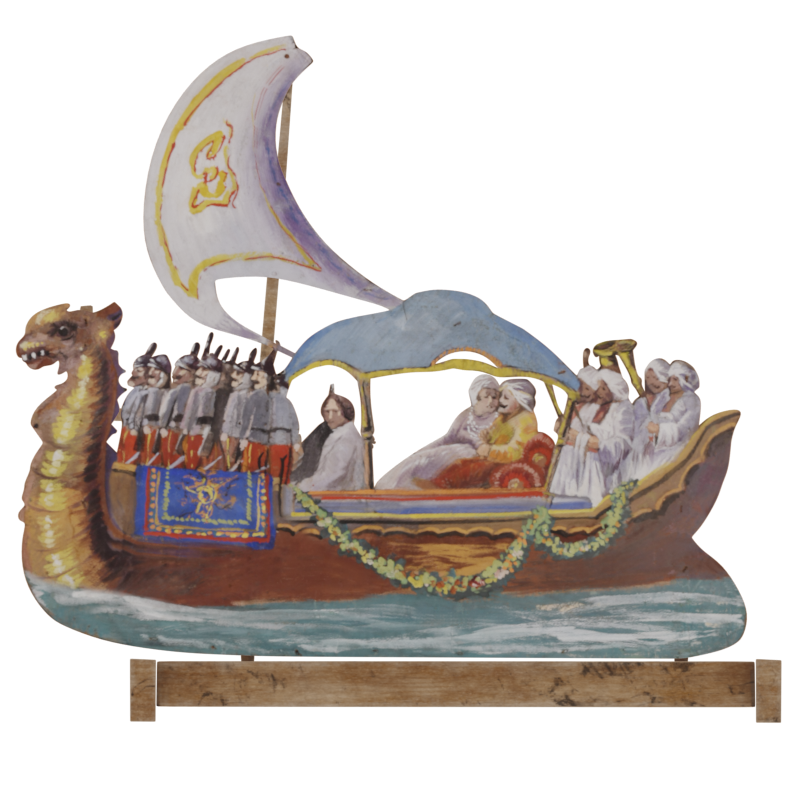
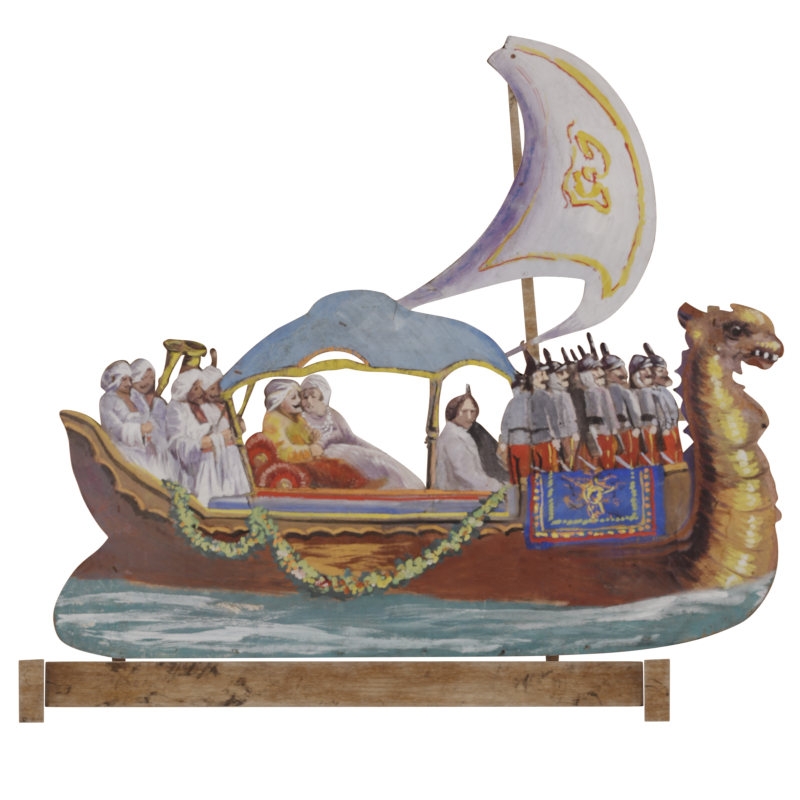
[Bugfix] delete figures
- schiffe in richtige richtung
- delete figuren funktioniert jetzt

diff --git a/Assets/Scripts/RailManager.cs b/Assets/Scripts/RailManager.cs
@@ -313,7 +313,7 @@ public class RailManager : MonoBehaviour
                     }
                     else
                     {
-                       // Debug.Log("es gibt kein idx-1");
+                        // Debug.Log("es gibt kein idx-1");
                         LoopRight(railIndex, idx, fig, false);
                     }
                 }
@@ -468,7 +468,7 @@ public class RailManager : MonoBehaviour
                     }
                     else
                     {
-                       // Debug.Log("layer 2");
+                        // Debug.Log("layer 2");
                         SceneManaging.scaleToLayerSize(fig.figure, 2, rails[railIndex], rectSize);
                         fig.layer = 2;
                     }
@@ -487,10 +487,10 @@ public class RailManager : MonoBehaviour
                     }
                     else
                     {
-                       // Debug.Log("alles voll!");
+                        // Debug.Log("alles voll!");
                         if (currentClickedInstanceObjectIndex != -1)
                         {
-                           // Debug.Log("in der timeline");
+                            // Debug.Log("in der timeline");
                             // wenn maus links vom objekt ist
                             // if (Input.mousePosition.x < listWithoutCurrentFigure[currentClickedInstanceObjectIndex].figure.GetComponent<RectTransform>().position.x + listWithoutCurrentFigure[currentClickedInstanceObjectIndex].position.y / 2)
                             // {
@@ -505,7 +505,7 @@ public class RailManager : MonoBehaviour
                         else
                         {
                             // ins shelf zurueck!
-                        //    Debug.Log("vom shelf");
+                            //    Debug.Log("vom shelf");
                             spaceWarning.transform.position = new Vector2(spaceWarning.transform.position.x, rails[railIndex].transform.position.y);
                             spaceWarningBorder.transform.position = new Vector2(spaceWarning.transform.position.x, rails[railIndex].transform.position.y);
                             _toBeRemoved = true;
@@ -532,16 +532,16 @@ public class RailManager : MonoBehaviour
                 // wenn zwischen den beiden genug platz ist
                 if (listWithoutCurrentFigure[listWithoutCurrentFigure[i].neighborLeft].position.x + listWithoutCurrentFigure[listWithoutCurrentFigure[i].neighborLeft].position.y + rectSize <= listWithoutCurrentFigure[i].position.x + 1)
                 {
-                  //  Debug.Log("es ist genug platz");
+                    //  Debug.Log("es ist genug platz");
                     if (listWithoutCurrentFigure[i].layer == 1)
                     {
-                    //    Debug.Log("layer 1");
+                        //    Debug.Log("layer 1");
                         SceneManaging.scaleToLayerSize(fig.figure, 1, rails[railIndex], rectSize);
                         fig.layer = 1;
                     }
                     else
                     {
-                      //  Debug.Log("layer 2");
+                        //  Debug.Log("layer 2");
                         SceneManaging.scaleToLayerSize(fig.figure, 2, rails[railIndex], rectSize);
                         fig.layer = 2;
                     }
@@ -551,26 +551,26 @@ public class RailManager : MonoBehaviour
                 }
                 else
                 {
-                   // Debug.Log("nicht genug platz. x: " + (listWithoutCurrentFigure[i].position.x) + ", Figur: " + (listWithoutCurrentFigure[listWithoutCurrentFigure[i].neighborLeft].position.x + listWithoutCurrentFigure[listWithoutCurrentFigure[i].neighborLeft].position.y + rectSize));
+                    // Debug.Log("nicht genug platz. x: " + (listWithoutCurrentFigure[i].position.x) + ", Figur: " + (listWithoutCurrentFigure[listWithoutCurrentFigure[i].neighborLeft].position.x + listWithoutCurrentFigure[listWithoutCurrentFigure[i].neighborLeft].position.y + rectSize));
                     // hier passiert nichts, es muss weiter gesucht werden
                 }
             }
             else
             {
-                Debug.Log(listWithoutCurrentFigure[i].objName + " hat KEINEN linken nachbarn");
+                //Debug.Log(listWithoutCurrentFigure[i].objName + " hat KEINEN linken nachbarn");
                 if (listWithoutCurrentFigure[i].position.x - rectSize > 50)
                 {
-                   // Debug.Log("platz bis rand");
+                    // Debug.Log("platz bis rand");
                     if (listWithoutCurrentFigure[i].layer == 1)
                     {
-                     //   Debug.Log("layer 1");
+                        //   Debug.Log("layer 1");
                         SceneManaging.scaleToLayerSize(fig.figure, 1, rails[railIndex], rectSize);
                         fig.layer = 1;
 
                     }
                     else
                     {
-                      //  Debug.Log("layer 2");
+                        //  Debug.Log("layer 2");
                         SceneManaging.scaleToLayerSize(fig.figure, 2, rails[railIndex], rectSize);
                         fig.layer = 2;
                     }
@@ -582,13 +582,13 @@ public class RailManager : MonoBehaviour
                     // hier muss rechts weitergesucht werden
                     if (!fromRight)
                     {
-                      //  Debug.Log("kein platz bis zum rand, es muss rechts weitergesucht werden");
+                        //  Debug.Log("kein platz bis zum rand, es muss rechts weitergesucht werden");
                         LoopRight(currentRailIndex, 0, fig, true);
                     }
                     else
                     {
                         // ins shelf zurueck!
-                       // Debug.Log("alles voll!");
+                        // Debug.Log("alles voll!");
                         if (currentClickedInstanceObjectIndex != -1)
                         {
                             //Debug.Log("in der timeline");
@@ -608,7 +608,7 @@ public class RailManager : MonoBehaviour
                         // vom shelf
                         else
                         {
-                           // Debug.Log("vom shelf");
+                            // Debug.Log("vom shelf");
                             spaceWarning.transform.position = new Vector2(spaceWarning.transform.position.x, rails[currentRailIndex].transform.position.y);
                             spaceWarningBorder.transform.position = new Vector2(spaceWarning.transform.position.x, rails[railIndex].transform.position.y);
                             _toBeRemoved = true;
@@ -791,12 +791,21 @@ public class RailManager : MonoBehaviour
     {
         int tmpNr = int.Parse(obj.figure.transform.GetChild(1).name.Substring(12));
         int currentCounterNr = int.Parse(figCounterCircle[tmpNr - 1].text);
-
+        
         // erase from layer list
         railList[currentRailIndex].myObjects.Remove(obj);
 
         figCounterCircle[tmpNr - 1].text = (currentCounterNr - 1).ToString();
-        StaticSceneData.StaticData.figureElements[Int32.Parse(obj.objName.Substring(6, 2)) - 1].figureInstanceElements.Remove(StaticSceneData.StaticData.figureElements[Int32.Parse(obj.objName.Substring(6, 2)) - 1].figureInstanceElements[Int32.Parse(obj.objName.Substring(17))]);
+
+        // figure instance element rauskriegen (beim loeschen veraendert sich der platz im array, aber die endung ist noch 001 bspw.)
+        for (int j = 0; j < StaticSceneData.StaticData.figureElements[Int32.Parse(obj.figure.name.Substring(6, 2)) - 1].figureInstanceElements.Count; j++)
+        {
+            if (StaticSceneData.StaticData.figureElements[Int32.Parse(obj.figure.name.Substring(6, 2)) - 1].figureInstanceElements[j].instanceNr == int.Parse(obj.figure.name.Substring(16)))
+            {
+                // Debug.Log("remove: " + StaticSceneData.StaticData.figureElements[Int32.Parse(obj.figure.name.Substring(6, 2)) - 1].figureInstanceElements[j].name);
+                StaticSceneData.StaticData.figureElements[Int32.Parse(obj.figure.name.Substring(6, 2)) - 1].figureInstanceElements.Remove(StaticSceneData.StaticData.figureElements[Int32.Parse(obj.figure.name.Substring(6, 2)) - 1].figureInstanceElements[j]);
+            }
+        }
 
         Destroy(obj.figure);
         Destroy(obj.figure3D);
@@ -812,6 +821,7 @@ public class RailManager : MonoBehaviour
         }
         railList[currentRailIndex].myObjects = railList[currentRailIndex].myObjects.OrderBy(x => x.position.x).ToList();
         SceneManaging.CalculateNeighbors(railList[currentRailIndex].myObjects);
+
     }
     public GameObject CreateNew2DInstance(int figureNr, float momentOrPosX, int loadFromFile, int savedLayer, bool saveToSceneData)   // if layer = -1, then new instance, else layer has been saved
     {
@@ -971,8 +981,8 @@ public class RailManager : MonoBehaviour
             SceneManaging.scaleToLayerSize(newCopyOfFigure, 0, rails[currentRailIndex], rectSize);
             // Save to SceneData:
             FigureInstanceElement thisFigureInstanceElement = new FigureInstanceElement();
-            thisFigureInstanceElement.instanceNr = countCopiesOfObject(figureObjects[figureNr].name); //index
-            thisFigureInstanceElement.name = curr3DObject.name + "_" + countCopiesOfObject(figureObjects[figureNr].name).ToString("000");
+            thisFigureInstanceElement.instanceNr = (countCopiesOfObject(figureObjects[figureNr].name)) - 1; //index
+            thisFigureInstanceElement.name = curr3DObject.name + "_" + (countCopiesOfObject(figureObjects[figureNr].name) - 1).ToString("000");
             thisFigureInstanceElement.railStart = (int)Char.GetNumericValue(rails[currentRailIndex].name[17]) - 1; //railIndex
 
             StaticSceneData.StaticData.figureElements[figureNr].figureInstanceElements.Add(thisFigureInstanceElement);
@@ -1523,6 +1533,7 @@ public class RailManager : MonoBehaviour
                 releaseOnTimeline = false;
                 changedRail = false;
                 newHitTimeline = -1;
+                _toBeRemovedFromTimeline = true;
             }
         }
         // dragging an object from shelf to timeline / flyer
@@ -1794,8 +1805,8 @@ public class RailManager : MonoBehaviour
                         ///////////////////////////////////////////////////////////////////////////////////////////////////////
                         // Save to SceneData:
                         FigureInstanceElement thisFigureInstanceElement = new FigureInstanceElement();
-                        thisFigureInstanceElement.instanceNr = countCopiesOfObject(figureObjects[currentClickedObjectIndex].name); //index
-                        thisFigureInstanceElement.name = curr3DObject.name + "_" + countCopiesOfObject(figureObjects[currentClickedObjectIndex].name).ToString("000");
+                        thisFigureInstanceElement.instanceNr = (countCopiesOfObject(figureObjects[currentClickedObjectIndex].name)) - 1; //index
+                        thisFigureInstanceElement.name = curr3DObject.name + "_" + (countCopiesOfObject(figureObjects[currentClickedObjectIndex].name) - 1).ToString("000");
                         thisFigureInstanceElement.railStart = (int)Char.GetNumericValue(rails[currentRailIndex].name[17]) - 1; //railIndex
 
                         StaticSceneData.StaticData.figureElements[currentClickedObjectIndex].figureInstanceElements.Add(thisFigureInstanceElement);
@@ -1832,7 +1843,7 @@ public class RailManager : MonoBehaviour
                         {
                             if (railList[currentRailIndex].myObjects[i].objName == currentName)
                             {
-                                //Debug.Log("remove: " + railList[currentRailIndex].myObjects[i].objName);
+                                Debug.Log("remove: " + railList[currentRailIndex].myObjects[i].objName);
                                 removeObjectFromTimeline(railList[currentRailIndex].myObjects[i]);
                             }
                         }
@@ -1860,13 +1871,13 @@ public class RailManager : MonoBehaviour
             }
 
             // if instance is dropped somewhere else than on timeline: delete instance
-            else if (releaseOnTimeline == false && currentClickedInstanceObjectIndex != -1 && isInstance)
+            else if (releaseOnTimeline == false && currentClickedInstanceObjectIndex != -1 && isInstance && _toBeRemovedFromTimeline)
             {
                 for (int i = 0; i < railList[currentRailIndex].myObjects.Count; i++)
                 {
                     if (railList[currentRailIndex].myObjects[i].objName == currentName)
                     {
-                        //Debug.Log("remove: " + railList[currentRailIndex].myObjects[i].objName);
+                        // Debug.Log("remove: " + railList[currentRailIndex].myObjects[i].objName);
                         removeObjectFromTimeline(railList[currentRailIndex].myObjects[i]);
                     }
                 }
@@ -1909,19 +1920,31 @@ public class RailManager : MonoBehaviour
                     {
                         railList[k].myObjects[i].figure3D.transform.localEulerAngles = new Vector3(railList[k].myObjects[i].figure3D.transform.localEulerAngles.x, 270, railList[k].myObjects[i].figure3D.transform.localEulerAngles.z);
                     }
-                    StaticSceneData.StaticData.figureElements[Int32.Parse(railList[k].myObjects[i].figure.name.Substring(6, 2)) - 1].figureInstanceElements[Int32.Parse(railList[k].myObjects[i].figure.name.Substring(17))].moment = moment;
+                    //Debug.Log("versuch: "+ "FigObj"+Int32.Parse(railList[k].myObjects[i].figure.name.Substring(6, 2)) + "instance"+(railList[k].myObjects[i].figure.name.Substring(16)));
 
-                    if (railList[k].myObjects[i].layer == 1) //railList[k].myObjects.Contains(railList[k].myObjects[i]))
+                    for (int j = 0; j < StaticSceneData.StaticData.figureElements[Int32.Parse(railList[k].myObjects[i].figure.name.Substring(6, 2)) - 1].figureInstanceElements.Count; j++)
                     {
-                        if (railList[k].sizeLayering == 1)
-                            StaticSceneData.StaticData.figureElements[Int32.Parse(railList[k].myObjects[i].figure.name.Substring(6, 2)) - 1].figureInstanceElements[Int32.Parse(railList[k].myObjects[i].figure.name.Substring(17))].layer = 0;
-                        else
-                            StaticSceneData.StaticData.figureElements[Int32.Parse(railList[k].myObjects[i].figure.name.Substring(6, 2)) - 1].figureInstanceElements[Int32.Parse(railList[k].myObjects[i].figure.name.Substring(17))].layer = 1;
+                        if (StaticSceneData.StaticData.figureElements[Int32.Parse(railList[k].myObjects[i].figure.name.Substring(6, 2)) - 1].figureInstanceElements[j].instanceNr == int.Parse(railList[k].myObjects[i].figure.name.Substring(16)))
+                        {
+
+                            StaticSceneData.StaticData.figureElements[Int32.Parse(railList[k].myObjects[i].figure.name.Substring(6, 2)) - 1].figureInstanceElements[j].moment = moment;
+                            // Debug.Log("moment: " + StaticSceneData.StaticData.figureElements[Int32.Parse(railList[k].myObjects[i].figure.name.Substring(6, 2)) - 1].figureInstanceElements[j].moment);
+
+                            if (railList[k].myObjects[i].layer == 1) //railList[k].myObjects.Contains(railList[k].myObjects[i]))
+                            {
+                                if (railList[k].sizeLayering == 1)
+                                    StaticSceneData.StaticData.figureElements[Int32.Parse(railList[k].myObjects[i].figure.name.Substring(6, 2)) - 1].figureInstanceElements[j].layer = 0;
+                                else
+                                    StaticSceneData.StaticData.figureElements[Int32.Parse(railList[k].myObjects[i].figure.name.Substring(6, 2)) - 1].figureInstanceElements[j].layer = 1;
+                            }
+                            else
+                            {
+                                StaticSceneData.StaticData.figureElements[Int32.Parse(railList[k].myObjects[i].figure.name.Substring(6, 2)) - 1].figureInstanceElements[j].layer = 2;
+                            }
+                            // Debug.Log("layer: " + StaticSceneData.StaticData.figureElements[Int32.Parse(railList[k].myObjects[i].figure.name.Substring(6, 2)) - 1].figureInstanceElements[j].layer);
+                        }
                     }
-                    else
-                    {
-                        StaticSceneData.StaticData.figureElements[Int32.Parse(railList[k].myObjects[i].figure.name.Substring(6, 2)) - 1].figureInstanceElements[Int32.Parse(railList[k].myObjects[i].figure.name.Substring(17))].layer = 2;
-                    }
+                    // Debug.Log("test: "+StaticSceneData.StaticData.figureElements[Int32.Parse(railList[k].myObjects[i].figure.name.Substring(6, 2)) - 1].figureInstanceElements.Count+", nummer: "+railList[k].myObjects[i].figure.name.Substring(17));
                 }
             }
 

diff --git a/Assets/Scripts/RailMusicManager.cs b/Assets/Scripts/RailMusicManager.cs
@@ -120,31 +120,6 @@ public class RailMusicManager : MonoBehaviour
         maxTimeInSec = (int)AnimationTimer.GetMaxTime();
         sizeDeltaAsFactor = new Vector2(1.0f, 1.0f);
     }
-    /*private string identifyClickedObjectByList(List<GameObject> objectsOnTimeline)
-    {
-        string objName = "";
-        if (objectsOnTimeline.Count == 0)
-            return "no object found! [-1]";             //error-handling if no clickable object found
-
-        for (int i = 0; i < objectsOnTimeline.Count; i++)
-        {
-            //save last correct index
-            int oldClickedObject = currentClickedInstanceObjectIndex;
-            //which object in grid layout is clicked
-            if (objectsOnTimeline[i].GetComponent<BoxCollider2D>() == Physics2D.OverlapPoint(Input.mousePosition))
-            {
-                //save the index of clicked object
-                currentClickedInstanceObjectIndex = i;
-                return objectsOnTimeline[i].GetComponent<BoxCollider2D>().name;
-            }
-            else
-            {
-                objName = "no object clicked!";
-            }
-        }
-
-        return objName;
-    }*/
     public void openTimelineByClick(bool thisTimelineOpen, bool fromShelf)
     {
         if (fromShelf == false && SceneManaging.mainMenuActive == 2 && SceneManaging.directorMenueActive != 3)
@@ -1065,7 +1040,7 @@ public class RailMusicManager : MonoBehaviour
 
         if (Input.GetMouseButtonDown(0)) //left mouse button down
         {
-            if (!SceneManaging.tutorialActive)
+            if (!SceneManaging.tutorialActive && !SceneManaging.flyerActive)
             {
                 //identify which gameobject you clicked
                 currentClickedObjectIndex = SceneManaging.identifyClickedObject(figureObjects);         //method fills up the current clicked index
